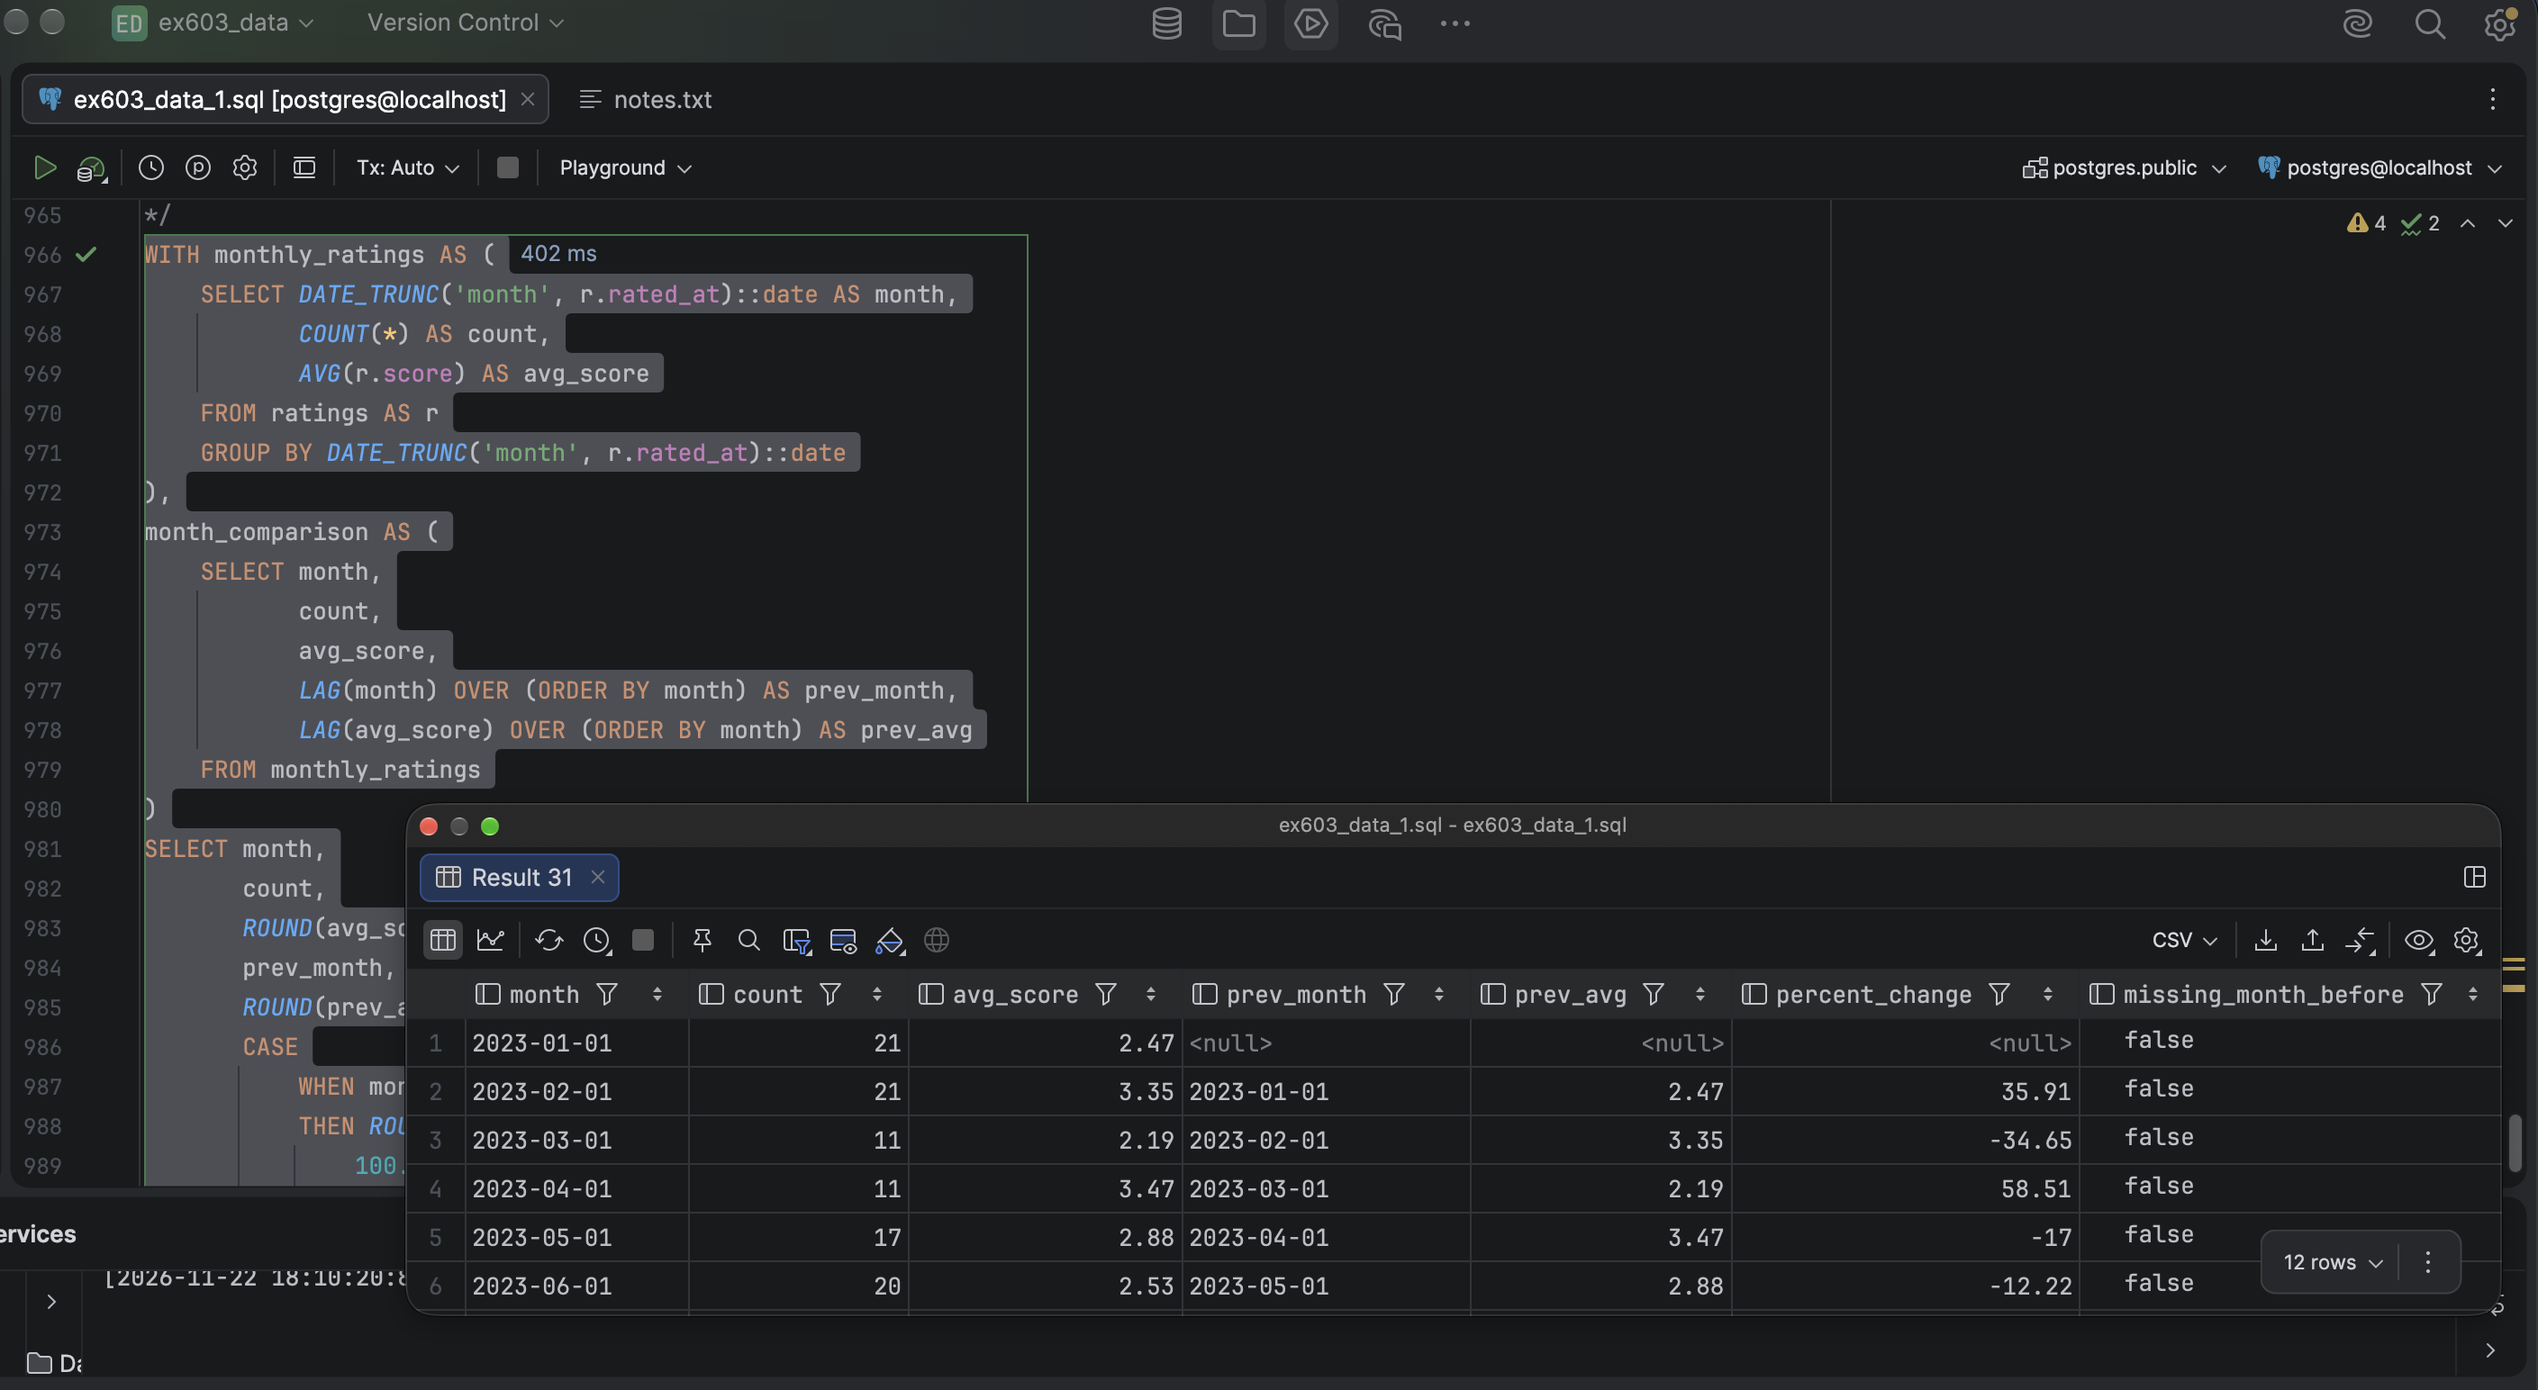
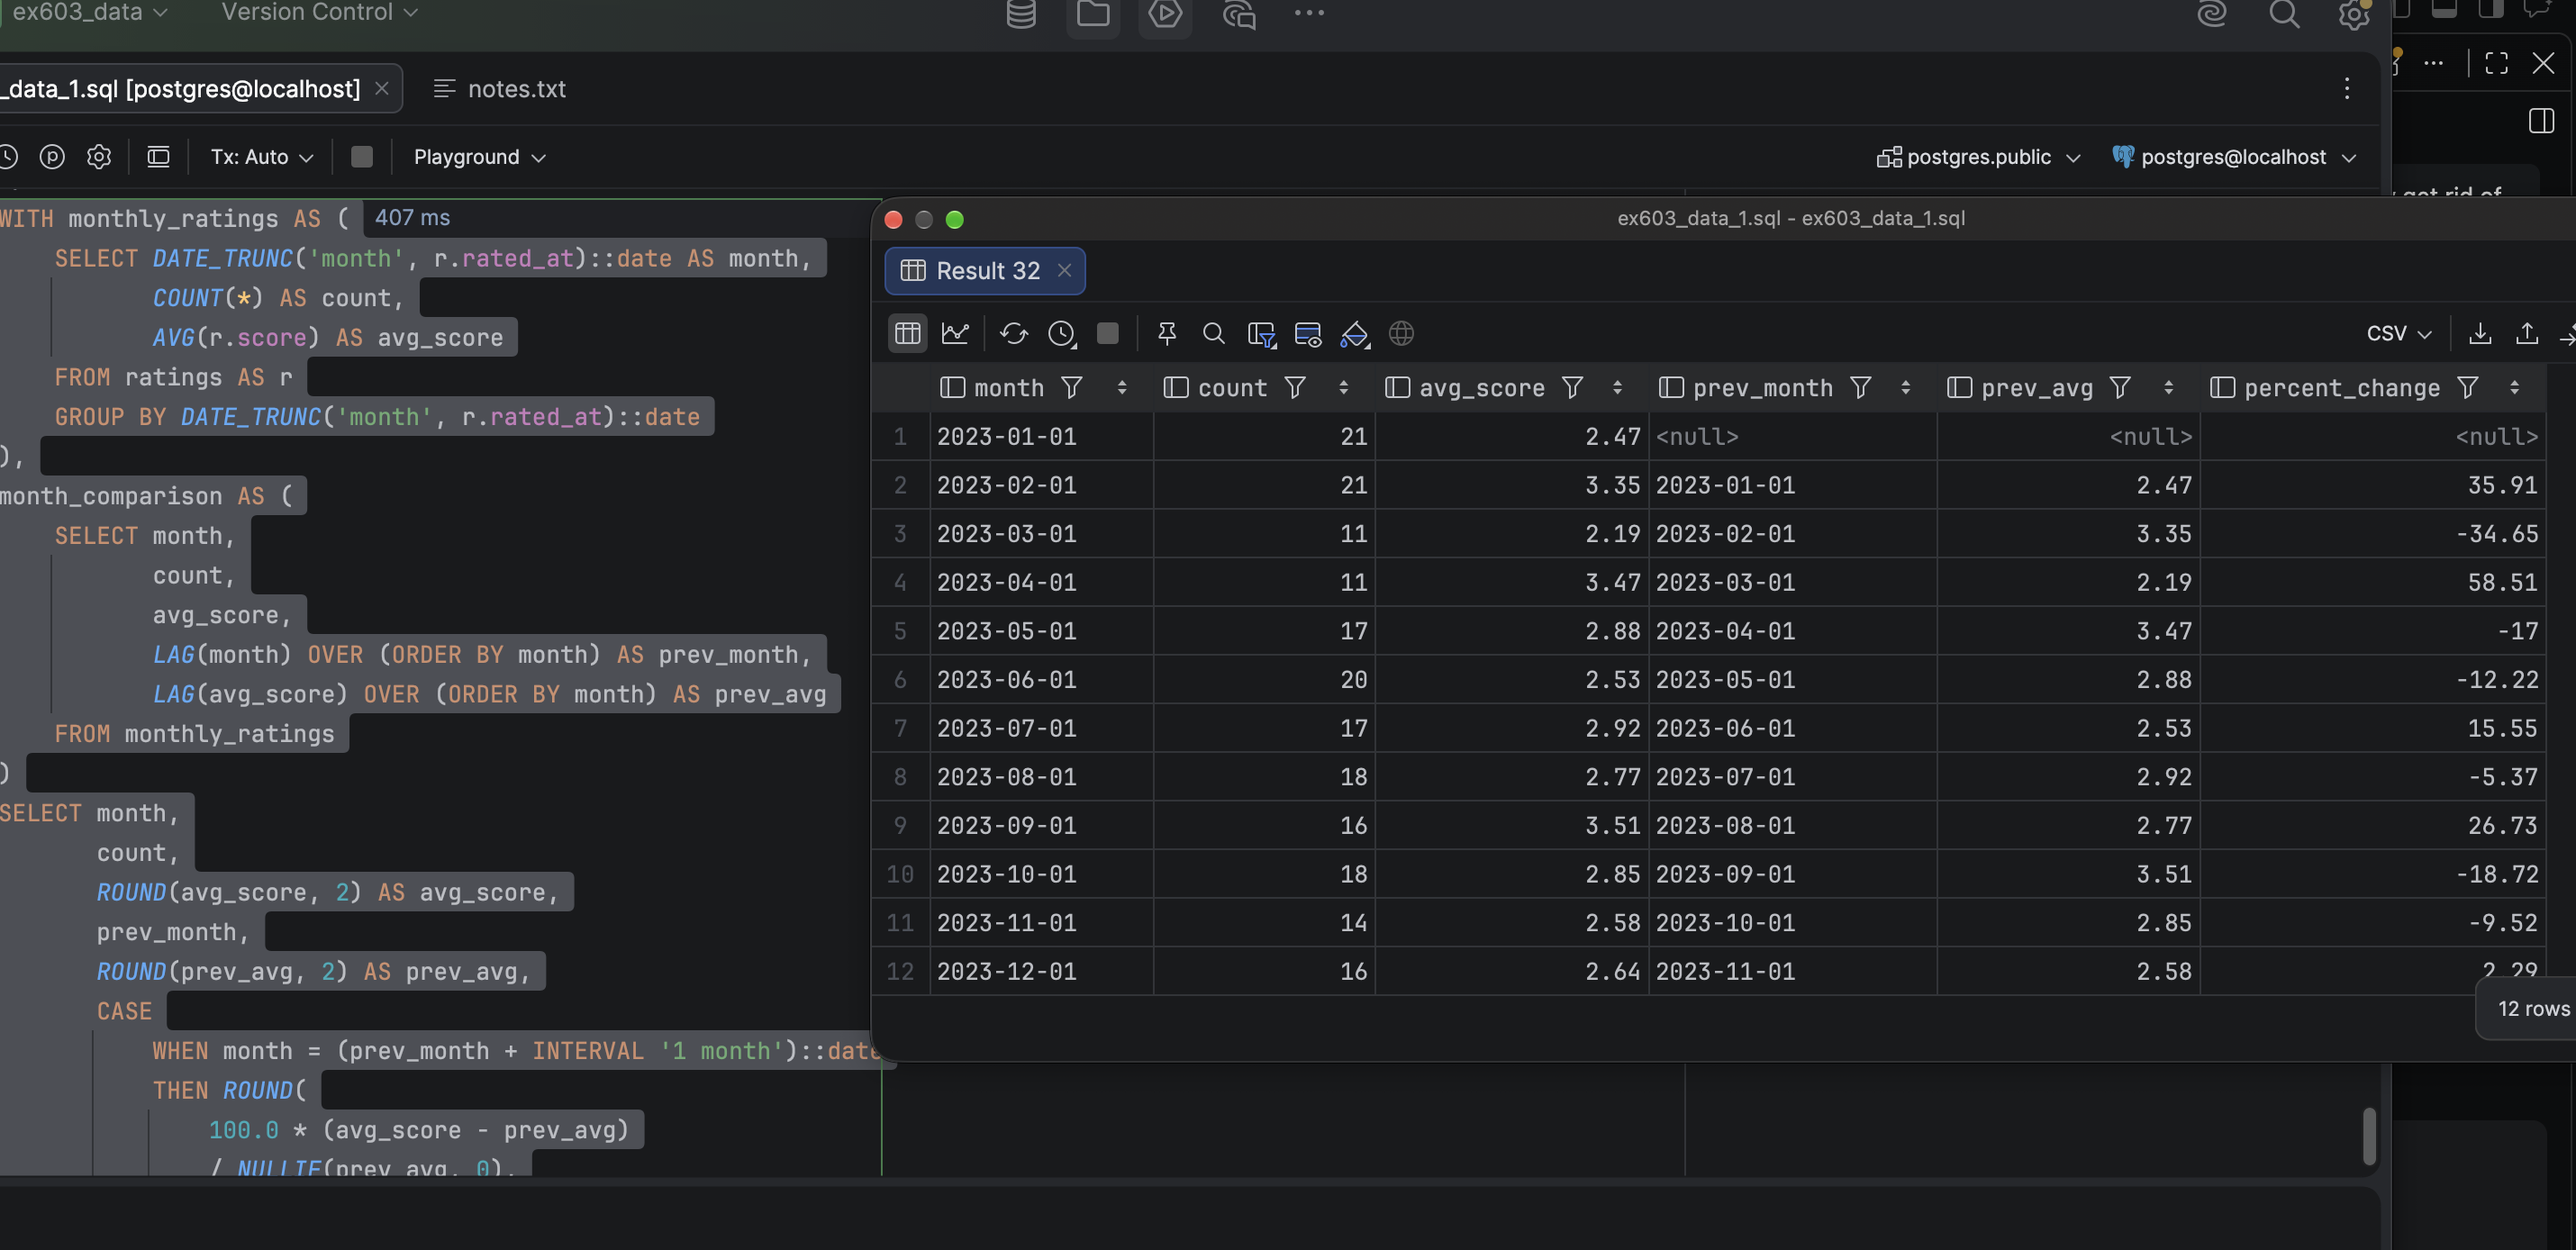
Readme updated

diff --git a/README.md b/README.md
@@ -15,15 +15,29 @@ This platform will answer questions about movie characteristics such as which mo
 
 ![Entity-Relationship Diagram](schema/erd.png)
 
-## Schema — summarize the five roles and your key design decisions.
+## Schema
 
 The 5 roles are: users, movies, ratings, genres, and movie_genres. Users holds account information such as username, email, and date joined. Movies holds data unique to the movie such as title, duration, and release date. The ratings table connects a user to the movie they rate with foreign keys for user_id and movie_id as well as the actual rating value. The genres table holds unique genre names and optional lists of subgenres. Lastly, the movie_genres defines the relationship between a movie and its genres with a foreign key for the genre_id and movie_id.
 
 I decided to delete a users rating when their user account is deleted to respect data privacy and ensure integrity. If a user recereates their account and makes a rating on a movie they rated on their old account, this allows 1 user to have multiple ratings for a movie, which violates the rule that one user can rate a movie once, enforced by the UNIQUE(user_id, movie_id) constraint.
 
-# To fill in later:
-
 ## Query catalogue
+
+| Unit | Business question | SQL file |
+|---|---|---|
+| 3.1 | Filter recent available movies and explore rating statuses, scores, reasons, and rating categories. | [Unit 3.1 queries](queries/unit3/q3_1.sql) |
+| 3.2 | Compare rating results and handle aliases and column references correctly. | [Unit 3.2 queries](queries/unit3/q3_2.sql) |
+| 3.3 | Find flagged or withdrawn ratings and identify patterns across users and movies. | [Unit 3.3 queries](queries/unit3/q3_3.sql) |
+| 4.1 | Summarize platform and movie rating counts, totals, averages, minimums, maximums, and distinct users. | [Unit 4.1 queries](queries/unit4/q4_1.sql) |
+| 4.2 | Measure withdrawn ratings, regional subtotals, and movies above the average distinct-user count. | [Unit 4.2 queries](queries/unit4/q4_2.sql) |
+| 5.1 | Connect users, movies, genres, and ratings, and compare related records. | [Unit 5.1 queries](queries/unit5/q5_1.sql) |
+| 5.2 | Compare join types and identify movies that have never received ratings. | [Unit 5.2 queries](queries/unit5/q5_2.sql) |
+| 5.3 | Examine join performance and the PostgreSQL execution plan. | [Unit 5.3 queries](queries/unit5/q5_3.sql) |
+| 6.1 | Compare each rating with its movie average and rank or band movies. | [Unit 6.1 queries](queries/unit6/q6_1.sql) |
+| 6.2 | Compare neighboring ratings, running totals, moving averages, and gaps. | [Unit 6.2 queries](queries/unit6/q6_2.sql) |
+| 6.3 | Return top ratings per movie and compare monthly performance. | [Unit 6.3 queries](queries/unit6/q6_3.sql) |
+
+The detailed Unit 4 results are shown below.
 
 #### 4.1.1
 
@@ -129,10 +143,34 @@ CROSS JOIN summary AS s
 WHERE m.distinct_ratings > s.avg_ratings;
 ```
 
-## Technical highlights — three to five things a reader should notice.
+## Technical highlights
 
-## What I would do differently — an honest paragraph. Critiquing your own work is a senior signal, not a weakness.
+- **Ranking and partitioned window functions:** `ROW_NUMBER`, `RANK`, `DENSE_RANK`, and `NTILE` preserve tie behavior or place movies into ordered bands without collapsing the underlying ratings.
+- **Neighbor, cumulative, and smoothing functions:** `LAG`, `LEAD`, running totals, and a seven-event moving average show individual changes and broader trends while keeping each event visible.
+- **Join-plan analysis:** `EXPLAIN` and execution-plan screenshots show how PostgreSQL used hash joins, nested loops, memoized index lookups, sorting, and memory for this dataset.
 
-## Video presentation — embed or link the video.
+## Findings and recommendations
 
-## How to run it — the commands to create the schema and execute a query. Assume the reader has a database and nothing else.
+Across 200 rating events, 34 were withdrawn, so the platform-wide withdrawal rate was 17%. Movie 11 had the highest withdrawal rate at 31.3% (5 of 16), followed by Movie 2 at 25% (4 of 16). Movie 10 had no withdrawn ratings out of 19, while Movies 14 and 15 had no ratings at all.
+
+The team should investigate the withdrawal reasons and rating process for Movies 11 and 2, and compare their patterns with the lower-withdrawal behavior of Movie 10. Movies 14 and 15 should first be checked for availability and visibility rather than treated as low-performing movies. The team should also add monthly withdrawal counts and percentages to the existing monthly score and rating-count analysis. This would distinguish a real improvement or worsening in failures from missing reviews or gaps in recorded data.
+
+## Limitations and future improvements
+
+The dataset does not include withdrawal reasons, marketing activity, movie availability, or complete ingestion logs for every gap. It also does not prove whether a period with no ratings reflects no user activity or lost records.
+
+Future work should add a monthly withdrawal-status field, user activity data, and movie availability history. It would allow the team to compare withdrawal patterns between genres and movie releases.
+
+## Video presentation 
+
+Video presentation link: [Add presentation link here].
+
+## How to run it
+
+This project uses PostgreSQL. In DataGrip:
+
+1. Create or open a PostgreSQL database named `ex603_movie_tv`.
+2. Add a PostgreSQL data source in DataGrip and connect it to the database.
+3. Open [schema/schema.sql](schema/schema.sql), select the full script, and execute it to create the tables.
+4. Load the sample rows into the tables using the project’s data-loading method. The repository does not include a data-loading SQL file.
+5. Open any query file, such as [queries/unit6/q6_3.sql](queries/unit6/q6_3.sql), and execute the individual statement or selected block.
